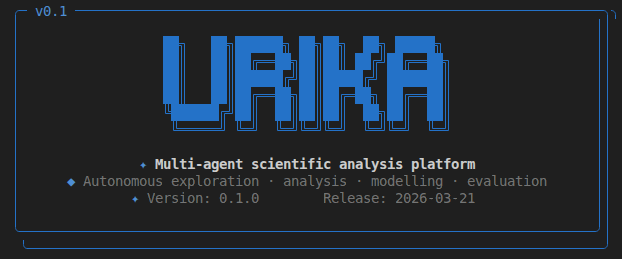
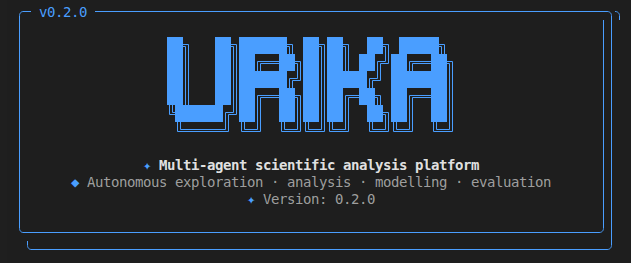
fix(cli): auto-update header version label from package metadata
Replaces hardcoded v0.1 in the URIKA banner border with the version
read from importlib.metadata, so it tracks each release. Also updates
the README header screenshot to v0.2.0.

diff --git a/src/urika/cli_display.py b/src/urika/cli_display.py
@@ -209,8 +209,6 @@ def print_header(
     min_width = 72
     max_width = 76
     content_width = min(max_width, max(min_width, len(info) + 20))
-    bar_top = "─" * (content_width - len(" Urika v0.1 "))
-    bar_bot = "─" * content_width
 
     B = _C.BLUE
     R = _C.RESET
@@ -228,8 +226,9 @@ def print_header(
 
         _ver = _pkg_version("urika")
     except Exception:
-        _ver = "0.1.0"
+        _ver = "0.0.0"
     ver = f"Version: {_ver}"
+    v_label = f"v{_ver}"
 
     def _pad(text: str, visible_len: int) -> str:
         """Pad to fill the box width, accounting for visible chars only."""
@@ -248,7 +247,7 @@ def print_header(
 
     # Recalculate width to fit logo
     w = max(w, logo_width + 4)
-    bar_top = "─" * (w - len(" v0.1 "))
+    bar_top = "─" * (w - len(f" {v_label} "))
     bar_bot = "─" * w
 
     def _center(text: str, icon: str = "") -> tuple[str, str]:
@@ -259,7 +258,7 @@ def print_header(
         right = total_pad - left
         return " " * left, " " * right
 
-    print(f"\n{B}╭─ v0.1 {bar_top}╮╮{R}")
+    print(f"\n{B}╭─ {v_label} {bar_top}╮╮{R}")
     print(f"{B}│{R}{' ' * w}{B}││{R}")
     for line in logo:
         total_pad = w - len(line)
